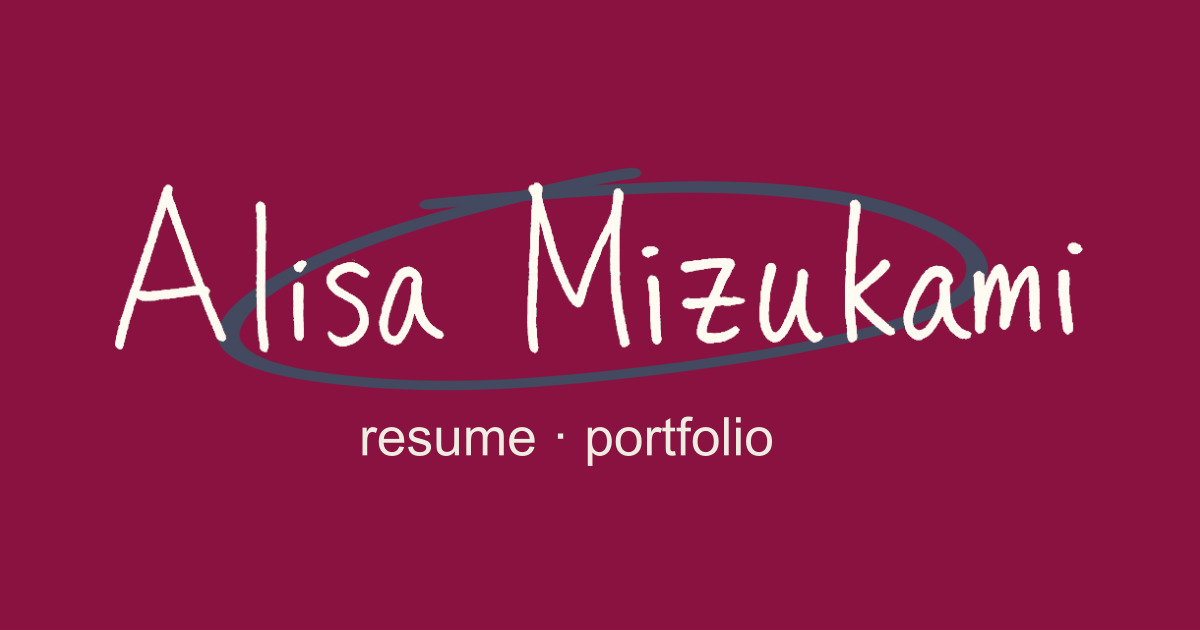
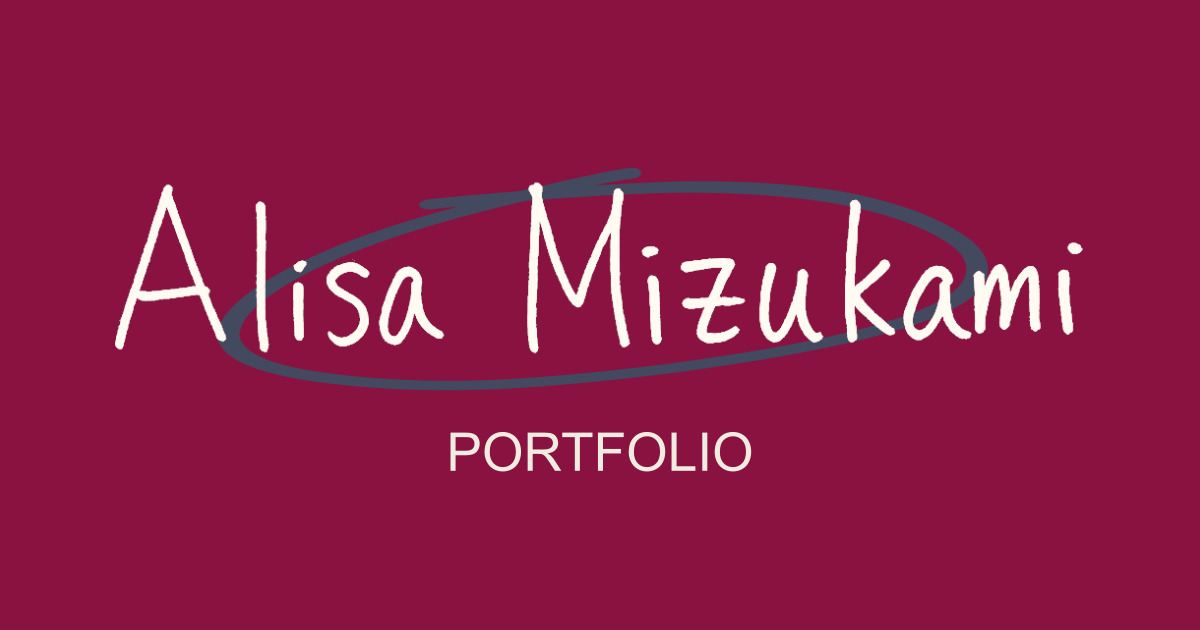
Minor format changes
Minor format changes, cleanup of mobile css, change in ogimage

Changed region(s): [[0.2775, 0.6635, 0.6475, 0.754]]

diff --git a/css/style.css b/css/style.css
@@ -349,6 +349,8 @@ transition: all .4s ease;
   }
   } /*end of Circle*/
 
+
+/*Removes the circle for less than 500px*/
   @media (max-width: 500px)
   {
     .circle {
@@ -986,7 +988,7 @@ padding-left: 2rem;
   .contact-left h2
   {
     font-family: Verdana, sans-serif;
-    font-size: 25px;
+    font-size: 1.25em;
     font-weight: bold;
     line-height: 0.5;
     color: #44495D;
@@ -998,113 +1000,10 @@ padding-left: 2rem;
   .contact-right h2
   {
     font-family: Verdana, sans-serif;
-    font-size: 25px;
+    font-size: 1.25em;
     font-weight: bold;
     line-height: 0.5;
     color: #44495D;
     margin: 0;
     text-align: right;
-  }
-
-
-
-  /*===================== 7. MEDIA QUERIES DESKTOP======================== */
-
-@media (min-width: 500px)
-{
-  .indexmobile
-  {
-    display: none;
-  }
-}
-
-  @media (max-width: 720px)
-  {
-
- /*When screen gets too thin, multiple columns get consolidated
- into one column*/
-    .mobilecolumn{
-      width: 100%;
-      border-style: none;
-      padding-left: 0;
-    }
-
-    /*When screen gets too thin, multiple columns get consolidated
-    into one column*/
-  /*  .mobilecolumn p, .mobilecolumn h2, .mobilecolumn iframe{
-      padding-left:0;
-    }
-*/
-    .sidebar p {
-      font-size: 1em;
-    }
-
-    /*When screen gets too thin, images get deleted to allow max text*/
-    .twentyfivecolumn img{
-     display: none;
-    }
-
-    .topnav a
-    {
-      font-size: 0.9em;
-      padding: 1.5em;
-    }
-
-    .topnav
-    {
-      padding-top: 0.5em;
-      padding-bottom: 0.5em;
-    }
-
-    .logo img
-    {
-      width: 40%;
-    }
-
-    .index h1
-    {
-    font-size: 1rem;
-    }
-
-    .gallery img
-    {
-      padding: 0.5em;
-      height: 150px;
-    }
-
-    .contact-left h2
-    {
-      font-family: Verdana, sans-serif;
-      font-size: 15px;
-      font-weight: bold;
-      line-height: 0.5;
-      color: #44495D;
-      margin: 0;
-      text-align: left;
-    }
-
-    .contact-right h2
-    {
-      font-family: Verdana, sans-serif;
-      font-size: 15px;
-      font-weight: bold;
-      line-height: 0.5;
-      color: #44495D;
-      margin: 0;
-      text-align: right;
-    }
-
-    .accordion {
-      padding: 1em 2em;
-    }
-
-    button {
-      padding: 1em 2em;
-    }
-
-  }
-
-  @media (min-width: 1024px)
-  {
-
   }

diff --git a/css/mobile.css b/css/mobile.css
@@ -1,3 +1,7 @@
+
+
+/*For when screen gets too small. 500px = When top nav bar becomes a hamburger */
+
 @media (max-width: 500px)
 {
 
@@ -32,6 +36,26 @@
 
   .artnumbertext {
     display: none;
+  }
+
+  .frontpage img
+  {
+    width: 75%;
+  }
+
+  .logo img
+  {
+    width: 60%;
+  }
+
+  .triangle-isosceles-left
+  {
+    width: 75%;
+  }
+
+  .triangle-isosceles-right
+  {
+    width: 75%;
   }
 
 
@@ -119,5 +143,106 @@ filter: invert(27%) sepia(24%) saturate(445%) hue-rotate(190deg) brightness(95%)
   }
 
 
+
+}
+
+
+
+/*===================== 7. MEDIA QUERIES DESKTOP======================== */
+
+/*Maybe don't need
+@media (min-width: 500px)
+{
+.indexmobile
+{
+  display: none;
+}
+}
+*/
+
+
+/*Max width 720px to delete images from multiple columns */
+@media (max-width: 720px)
+{
+
+/*When screen gets too thin, multiple columns get consolidated
+into one column*/
+  .mobilecolumn{
+    width: 100%;
+    border-style: none;
+    padding-left: 0;
+  }
+
+  /*When screen gets too thin, multiple columns get consolidated
+  into one column*/
+/*  .mobilecolumn p, .mobilecolumn h2, .mobilecolumn iframe{
+    padding-left:0;
+  }
+*/
+  .sidebar p {
+    font-size: 1em;
+  }
+
+  /*When screen gets too thin, images get deleted to allow max text*/
+  .twentyfivecolumn img{
+   display: none;
+  }
+
+  .topnav a
+  {
+    font-size: 0.9em;
+    padding: 1.5em;
+  }
+
+  .topnav
+  {
+    padding-top: 0.5em;
+    padding-bottom: 0.5em;
+  }
+
+
+
+  .index h1
+  {
+  font-size: 1rem;
+  }
+
+
+
+  .gallery img
+  {
+    padding: 0.5em;
+    height: 150px;
+  }
+
+  .contact-left h2
+  {
+    font-family: Verdana, sans-serif;
+    font-size: 15px;
+    font-weight: bold;
+    line-height: 0.5;
+    color: #44495D;
+    margin: 0;
+    text-align: left;
+  }
+
+  .contact-right h2
+  {
+    font-family: Verdana, sans-serif;
+    font-size: 15px;
+    font-weight: bold;
+    line-height: 0.5;
+    color: #44495D;
+    margin: 0;
+    text-align: right;
+  }
+
+  .accordion {
+    padding: 1em 2em;
+  }
+
+  button {
+    padding: 1em 2em;
+  }
 
 }

diff --git a/index.html b/index.html
@@ -119,15 +119,9 @@
 
       </div>
 
+<br clear=all>
       <h1>Hi! I'm Alisa.</h1>
       <p>An engineer with a love of design.</p>
-
-<!--
-<br clear=all><br>
-<hr>
-<h1>Hi! I'm Alisa.</h1>
-<p>A mechanical engineering graduate aspiring to make life a little easier to live.</p>
--->
 
 </div><!--end of index-->
 
